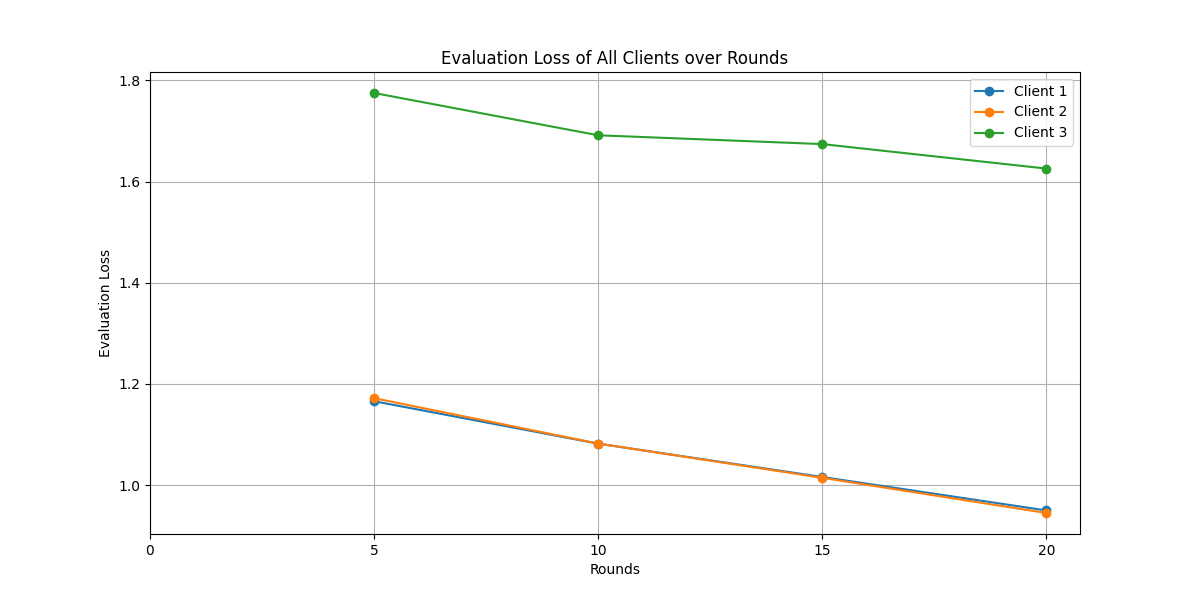
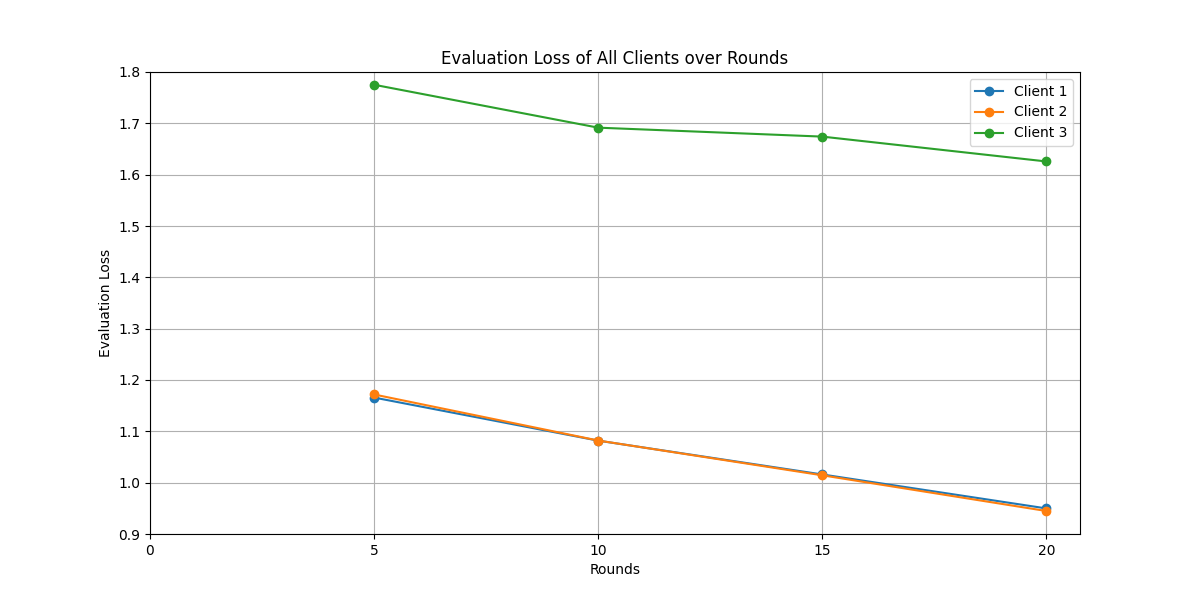
graphs update

diff --git a/kenny/working/OG_ids/process_global.py b/kenny/working/OG_ids/process_global.py
@@ -1,0 +1,55 @@
+import pandas as pd
+import os
+
+# Folder containing the CSV files
+folder_path = 'metrics'
+
+# Define the filenames and desired new CSV filenames
+file_names = ['3_client_global_metrics.csv', '4_client_global_metrics.csv', '5_client_global_metrics.csv']
+columns = ['eval_loss', 'eval_accuracy', 'f1_score']
+new_file_names = {
+    'eval_loss': 'combined_eval_loss.csv',
+    'eval_accuracy': 'combined_eval_accuracy.csv',
+    'f1_score': 'combined_f1_score.csv'
+}
+
+# Initialize empty dataframes to store the combined data
+combined_eval_loss = pd.DataFrame()
+combined_eval_accuracy = pd.DataFrame()
+combined_f1_score = pd.DataFrame()
+
+# Loop through each file and extract the required columns
+for i, file_name in enumerate(file_names):
+    # Construct the full path to the CSV file
+    file_path = os.path.join(folder_path, file_name)
+    
+    # Read the CSV file
+    df = pd.read_csv(file_path)
+    
+    # Extract the round and required metrics, renaming the columns appropriately
+    eval_loss = df[['round', 'eval_loss']].rename(columns={'eval_loss': f'{i + 3}_client_eval_loss'})
+    eval_accuracy = df[['round', 'eval_accuracy']].rename(columns={'eval_accuracy': f'{i + 3}_client_eval_accuracy'})
+    f1_score = df[['round', 'f1_score']].rename(columns={'f1_score': f'{i + 3}_client_f1'})
+    
+    # Merge with the combined dataframes on the 'round' column
+    if combined_eval_loss.empty:
+        combined_eval_loss = eval_loss
+    else:
+        combined_eval_loss = pd.merge(combined_eval_loss, eval_loss, on='round')
+        
+    if combined_eval_accuracy.empty:
+        combined_eval_accuracy = eval_accuracy
+    else:
+        combined_eval_accuracy = pd.merge(combined_eval_accuracy, eval_accuracy, on='round')
+    
+    if combined_f1_score.empty:
+        combined_f1_score = f1_score
+    else:
+        combined_f1_score = pd.merge(combined_f1_score, f1_score, on='round')
+
+# Save the combined dataframes to new CSV files
+combined_eval_loss.to_csv(os.path.join(folder_path, new_file_names['eval_loss']), index=False)
+combined_eval_accuracy.to_csv(os.path.join(folder_path, new_file_names['eval_accuracy']), index=False)
+combined_f1_score.to_csv(os.path.join(folder_path, new_file_names['f1_score']), index=False)
+
+print(f"New CSV files created: {new_file_names['eval_loss']}, {new_file_names['eval_accuracy']}, {new_file_names['f1_score']}")

diff --git a/kenny/working/OG_ids/plot_combine_graph.py b/kenny/working/OG_ids/plot_combine_graph.py
@@ -58,7 +58,7 @@ for client_id in client_ids:
     all_data['f1_score'][f'Client {client_id}'] = f1_scores_filtered
 
 # Helper function to plot metrics
-def plot_metrics(metric_name, ylabel):
+def plot_metrics(metric_name, ylabel, y_limits=None):
     plt.figure(figsize=(12, 6))
     for client_id in sorted(client_ids):
         client_label = f'Client {client_id}'
@@ -70,12 +70,15 @@ def plot_metrics(metric_name, ylabel):
     plt.legend()
     plt.grid(True)
     plt.xticks(range(0, max(all_rounds) + 1, 5))  # Set x-axis ticks to specified values
+    if y_limits:
+        plt.ylim(y_limits)  # Set y-axis limits if specified
     plt.savefig(os.path.join(metrics_dir, f'all_clients_{metric_name}_plot.png'))
     plt.close()
 
-# Plot all metrics
-plot_metrics('train_loss', 'Train Loss')
-plot_metrics('train_accuracy', 'Train Accuracy')
-plot_metrics('eval_loss', 'Evaluation Loss')
-plot_metrics('eval_accuracy', 'Evaluation Accuracy')
-plot_metrics('f1_score', 'F1 Score')
+# Plot all metrics with specified y-axis limits
+plot_metrics('train_loss', 'Train Loss', y_limits=(0, 2.5))
+plot_metrics('train_accuracy', 'Train Accuracy', y_limits=(0.2, 0.7))
+plot_metrics('eval_loss', 'Evaluation Loss', y_limits=(0.9, 1.8))
+plot_metrics('eval_accuracy', 'Evaluation Accuracy', y_limits=(0.4, 0.7))
+plot_metrics('f1_score', 'F1 Score', y_limits=(0.3, 0.7))
+

diff --git a/kenny/working/OG_ids/plot_accuracy.py b/kenny/working/OG_ids/plot_accuracy.py
@@ -1,0 +1,34 @@
+import pandas as pd
+import matplotlib.pyplot as plt
+
+# Load the CSV file from the metrics folder
+df = pd.read_csv('/Users/kennyhuang/Documents/GitHub/FL-Project/kenny/working/OG_ids/metrics/combined_eval_accuracy.csv')  # Replace 'your_file_name.csv' with your actual file name
+
+# Filter rows to only include every 5th round
+df_filtered = df[df['round'] % 5 == 0]
+
+# Create the plot
+plt.figure(figsize=(10, 6))
+plt.plot(df_filtered['round'], df_filtered['3_client_eval_accuracy'], marker='o', label='3 Client Eval Accuracy')
+plt.plot(df_filtered['round'], df_filtered['4_client_eval_accuracy'], marker='o', label='4 Client Eval Accuracy')
+plt.plot(df_filtered['round'], df_filtered['5_client_eval_accuracy'], marker='o', label='5 Client Eval Accuracy')
+
+# Set plot title and labels
+plt.title('Evaluation Accuracy Per 5 Rounds')
+plt.xlabel('Round')
+plt.ylabel('Accuracy')
+
+# Set x-axis range and ticks with extra space
+plt.xticks([0, 5, 10, 15, 20])
+plt.xlim(-2, 22)  # Adds padding before 0 and after 20
+
+# Set y-axis range
+plt.ylim(0, 0.7)
+
+# Display grid and legend
+plt.grid(True)
+plt.legend()
+
+# Save the plot as an image file
+plt.savefig('metrics/eval_accuracy_plot.png')  # Saves in the metrics folder as 'eval_accuracy_plot.png'
+

diff --git a/kenny/working/OG_ids/plot_loss.py b/kenny/working/OG_ids/plot_loss.py
@@ -1,0 +1,33 @@
+import pandas as pd
+import matplotlib.pyplot as plt
+
+# Load the CSV file from the metrics folder
+df = pd.read_csv('/Users/kennyhuang/Documents/GitHub/FL-Project/kenny/working/OG_ids/metrics/combined_eval_loss.csv')  # Replace 'your_file_name.csv' with your actual file name
+
+# Filter rows to only include every 5th round
+df_filtered = df[df['round'] % 5 == 0]
+
+# Create the plot
+plt.figure(figsize=(10, 6))
+plt.plot(df_filtered['round'], df_filtered['3_client_eval_loss'], marker='o', label='3 Client Eval Loss')
+plt.plot(df_filtered['round'], df_filtered['4_client_eval_loss'], marker='o', label='4 Client Eval Loss')
+plt.plot(df_filtered['round'], df_filtered['5_client_eval_loss'], marker='o', label='5 Client Eval Loss')
+
+# Set plot title and labels
+plt.title('Evaluation Loss Per 5 Rounds')
+plt.xlabel('Round')
+plt.ylabel('Loss')
+
+# Set x-axis range and ticks with extra space
+plt.xticks([0, 5, 10, 15, 20])
+plt.xlim(-2, 22)  # Adds padding before 0 and after 20
+
+# Set y-axis range
+plt.ylim(1, 3)
+
+# Display grid and legend
+plt.grid(True)
+plt.legend()
+
+# Save the plot as an image file
+plt.savefig('metrics/eval_loss_plot.png')  # Saves in the metrics folder as 'eval_accuracy_plot.png'

diff --git a/kenny/working/OG_ids/plot_f1.py b/kenny/working/OG_ids/plot_f1.py
@@ -1,0 +1,33 @@
+import pandas as pd
+import matplotlib.pyplot as plt
+
+# Load the CSV file from the metrics folder
+df = pd.read_csv('/Users/kennyhuang/Documents/GitHub/FL-Project/kenny/working/OG_ids/metrics/combined_f1_score.csv')  # Replace 'your_file_name.csv' with your actual file name
+
+# Filter rows to only include every 5th round
+df_filtered = df[df['round'] % 5 == 0]
+
+# Create the plot
+plt.figure(figsize=(10, 6))
+plt.plot(df_filtered['round'], df_filtered['3_client_f1'], marker='o', label='3 Client F1 score')
+plt.plot(df_filtered['round'], df_filtered['4_client_f1'], marker='o', label='4 Client F1 score')
+plt.plot(df_filtered['round'], df_filtered['5_client_f1'], marker='o', label='5 Client F1 score')
+
+# Set plot title and labels
+plt.title('F1 Score Per 5 Rounds')
+plt.xlabel('Round')
+plt.ylabel('F1 Score')
+
+# Set x-axis range and ticks with extra space
+plt.xticks([0, 5, 10, 15, 20])
+plt.xlim(-2, 22)  # Adds padding before 0 and after 20
+
+# Set y-axis range
+plt.ylim(0, 0.7)
+
+# Display grid and legend
+plt.grid(True)
+plt.legend()
+
+# Save the plot as an image file
+plt.savefig('metrics/f1_score_plot.png')  # Saves in the metrics folder as 'eval_accuracy_plot.png'
